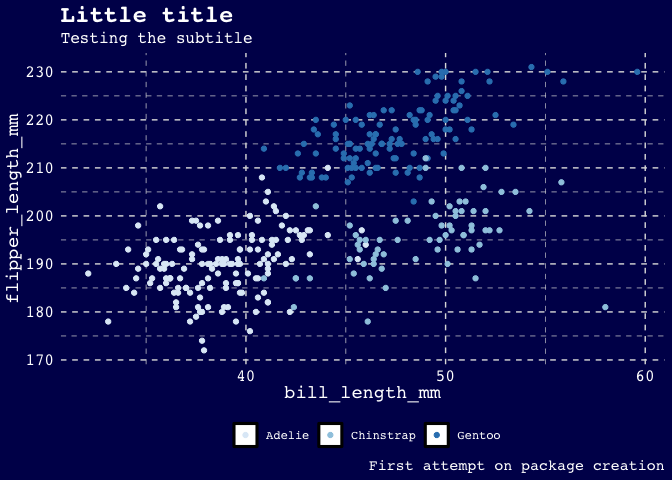
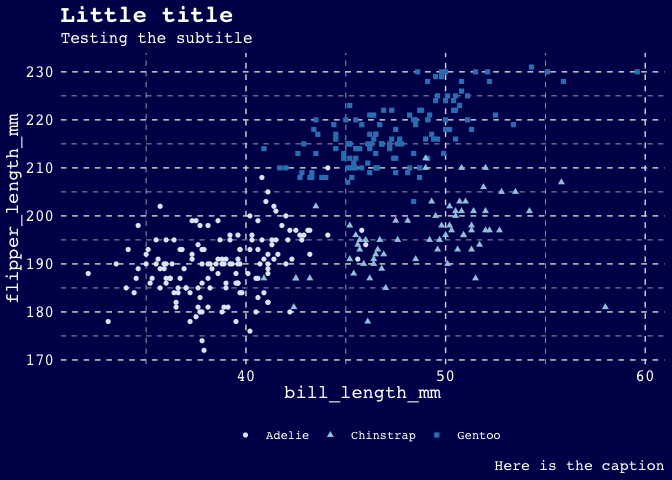
README update with and version update

diff --git a/README.md b/README.md
@@ -14,7 +14,7 @@ v3](https://img.shields.io/badge/License-GPLv3-blue.svg)](https://www.gnu.org/li
 <!-- badges: end -->
 
 The goal of eafithemer is to provide a simple theme using EAFIT
-university instutional aesthetics.
+university institutional aesthetics.
 
 ## Installation
 
@@ -36,17 +36,16 @@ devtools::install_github("camilogarciabotero/eafithemer")
 This is a basic example Showing the light template:
 
 ``` r
-library(tidyverse)
+library(ggplot2)
 library(palmerpenguins)
 library(eafithemer)
 
-palmerpenguins::penguins %>%
-    ggplot2::ggplot(aes(bill_length_mm, flipper_length_mm)) +
-  geom_point(aes(color = species)) +
+ggplot(penguins, aes(bill_length_mm, flipper_length_mm)) +
+  geom_point(aes(color = species, shape = species)) +
   labs(
     title = "Little title",
     subtitle = "Testing the subtitle",
-    caption = "First attempt on package creation"
+    caption = "Here is the caption"
   ) +
   eafithemer::theme_eafit_light() +
   eafithemer::scale_color_eafit() +
@@ -57,20 +56,19 @@ palmerpenguins::penguins %>%
 
 <img src="man/figures/README-theme-light-1.png" width="100%" />
 
-For dark template see:
+For dark theme see:
 
 ``` r
-library(tidyverse)
+library(ggplot2)
 library(palmerpenguins)
 library(eafithemer)
 
-palmerpenguins::penguins %>%
-    ggplot2::ggplot(aes(bill_length_mm, flipper_length_mm)) +
-  geom_point(aes(color = species)) +
+ggplot(penguins, aes(bill_length_mm, flipper_length_mm)) +
+  geom_point(aes(color = species, shape = species)) +
   labs(
     title = "Little title",
     subtitle = "Testing the subtitle",
-    caption = "First attempt on package creation"
+    caption = "Here is the caption"
   ) +
   eafithemer::theme_eafit_dark() +
   scale_color_brewer() +
